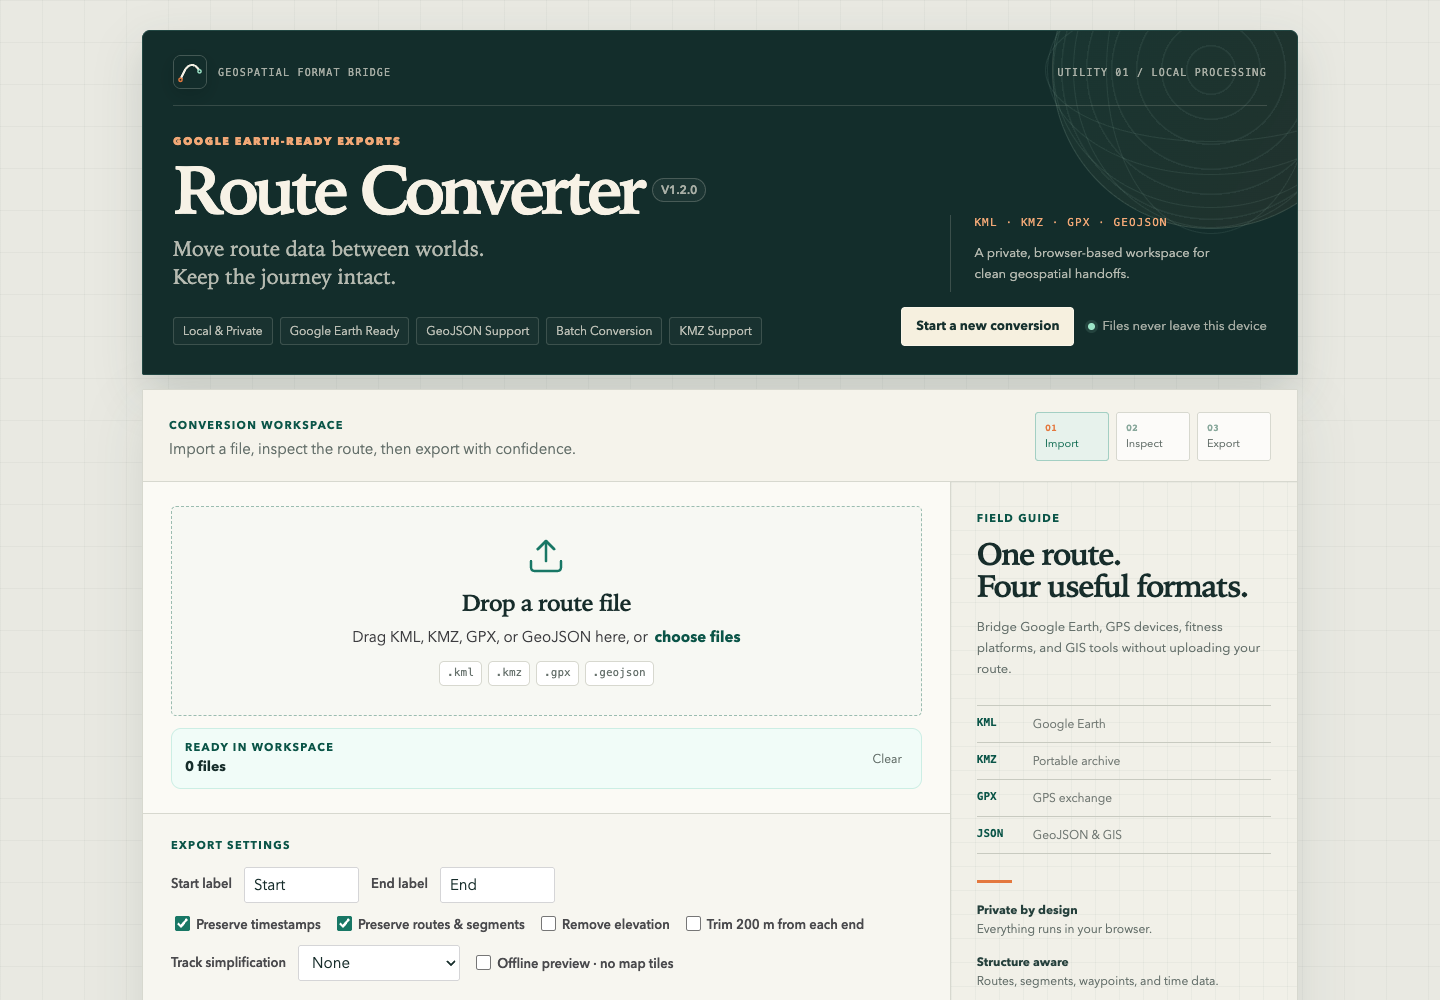
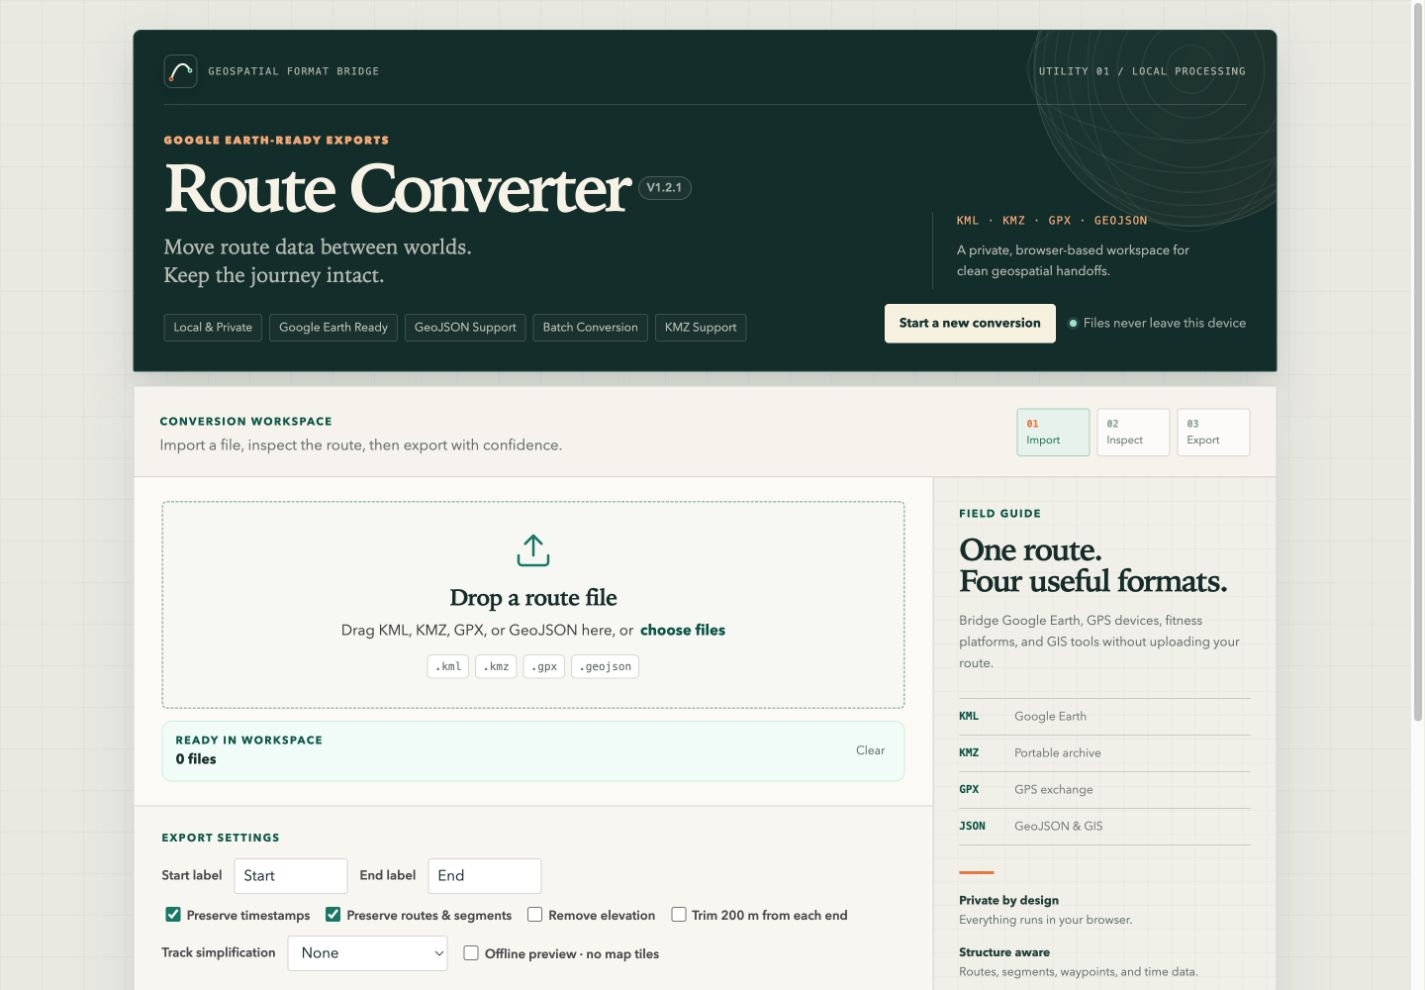
chore: release v1.2.1

diff --git a/index.html b/index.html
@@ -35,7 +35,7 @@
             <p class="hero-eyebrow">Google Earth-ready exports</p>
             <div class="title-row">
               <h1>Route Converter</h1>
-              <span class="version-badge" aria-label="Current version">V1.2.0</span>
+              <span class="version-badge" aria-label="Current version">V1.2.1</span>
             </div>
             <p class="tagline">Move route data between worlds.<br />Keep the journey intact.</p>
           </div>
@@ -275,7 +275,7 @@
       </main>
 
       <footer class="app-footer">
-        <span>V1.2.0</span>
+        <span>V1.2.1</span>
         <span>Local conversion</span>
         <span>MIT License</span>
       </footer>

diff --git a/service-worker.js b/service-worker.js
@@ -1,4 +1,4 @@
-const CACHE = 'route-converter-v1.2.0-r3'
+const CACHE = 'route-converter-v1.2.1-r1'
 const CORE = [
   '/',
   '/index.html',

diff --git a/CHANGELOG.md b/CHANGELOG.md
@@ -4,6 +4,8 @@ All notable changes to this project are documented here.
 
 ## Unreleased
 
+## V1.2.1 - 2026-07-21
+
 - Reworked the interface into an English cartographic workspace with clearer import, inspection, and export stages.
 - Added a shared application logo for the homepage, browser tab, and installable web app.
 - Reorganized project documentation around the hosted app, privacy model, supported data, validation, and contribution workflow.

diff --git a/PROGRESS.md b/PROGRESS.md
@@ -2,7 +2,7 @@
 
 This file records major implementation decisions and verification milestones. User-facing release notes live in `CHANGELOG.md`.
 
-## 2026-07-21 - English interface, app identity, and documentation
+## 2026-07-21 - Route Converter V1.2.1
 
 ### Completed
 

diff --git a/README.md b/README.md
@@ -15,7 +15,7 @@
 
 Route Converter is a static web app for moving route data between Google Earth, GPS devices, fitness platforms, and GIS tools. Parsing, conversion, KMZ extraction, and output packaging happen in your browser.
 
-Current release: **V1.2.0**
+Current release: **V1.2.1**
 
 ## What it does
 